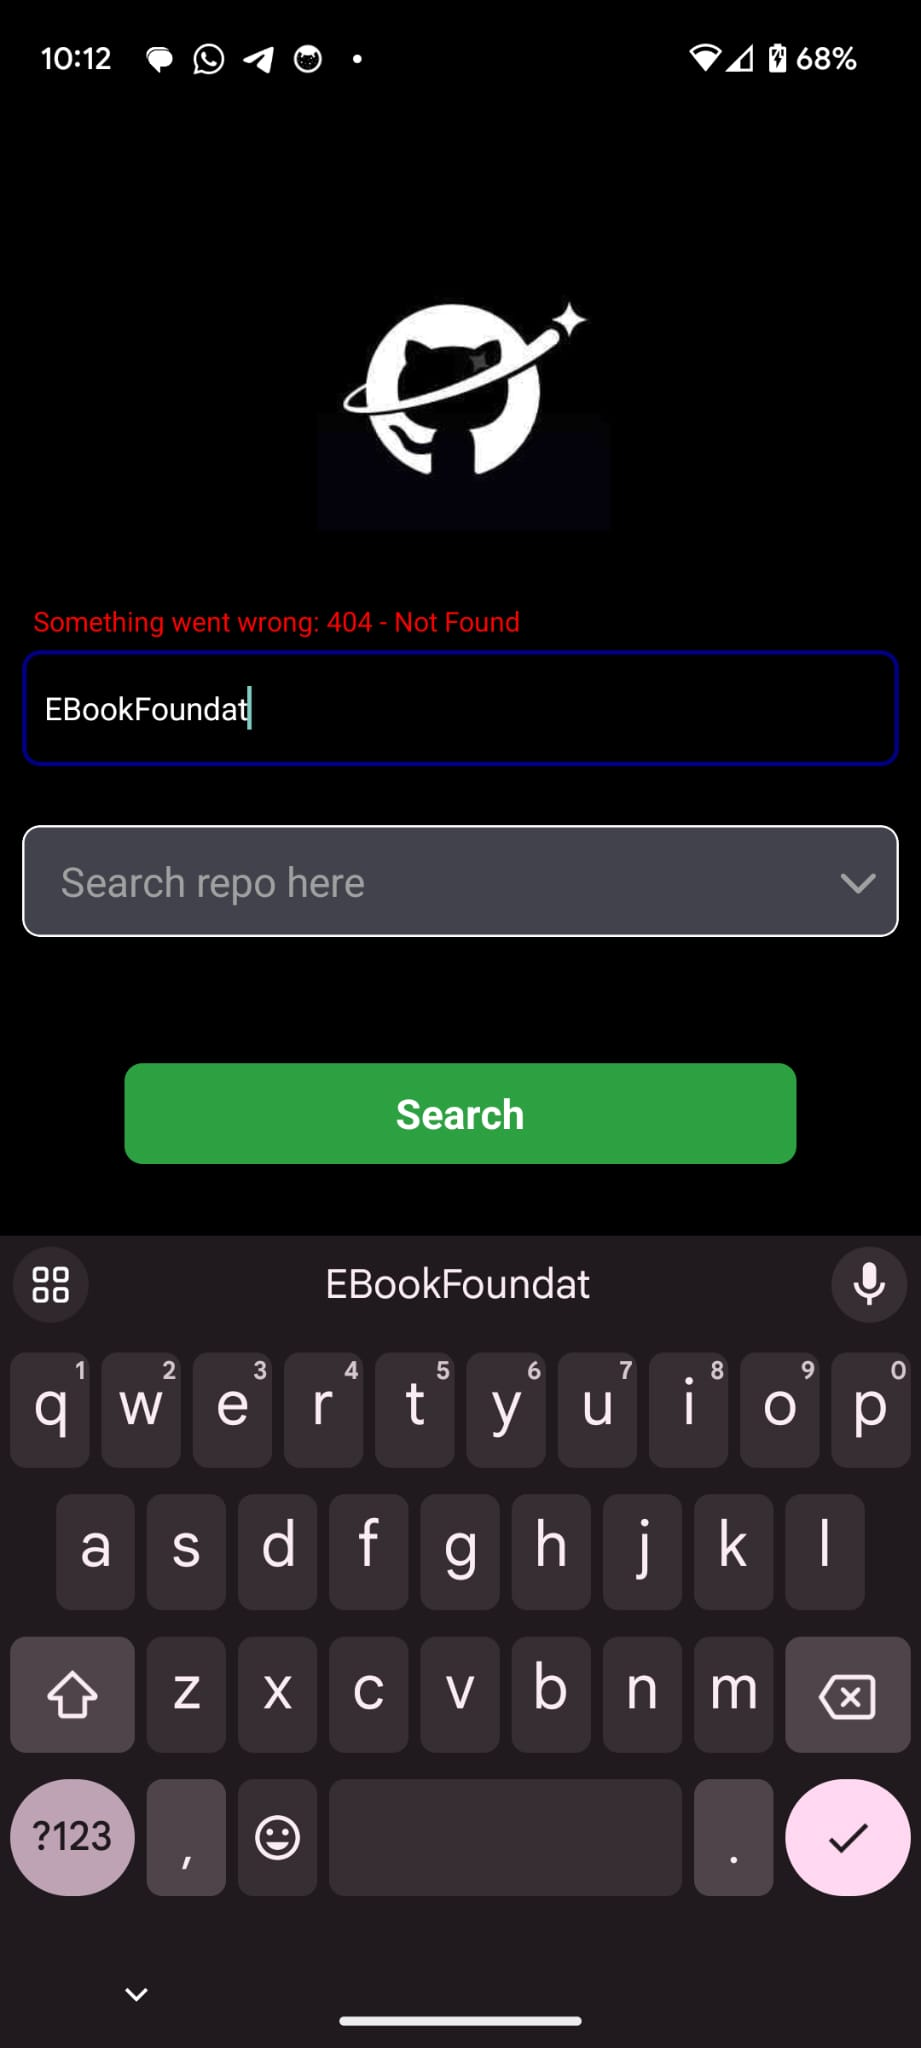
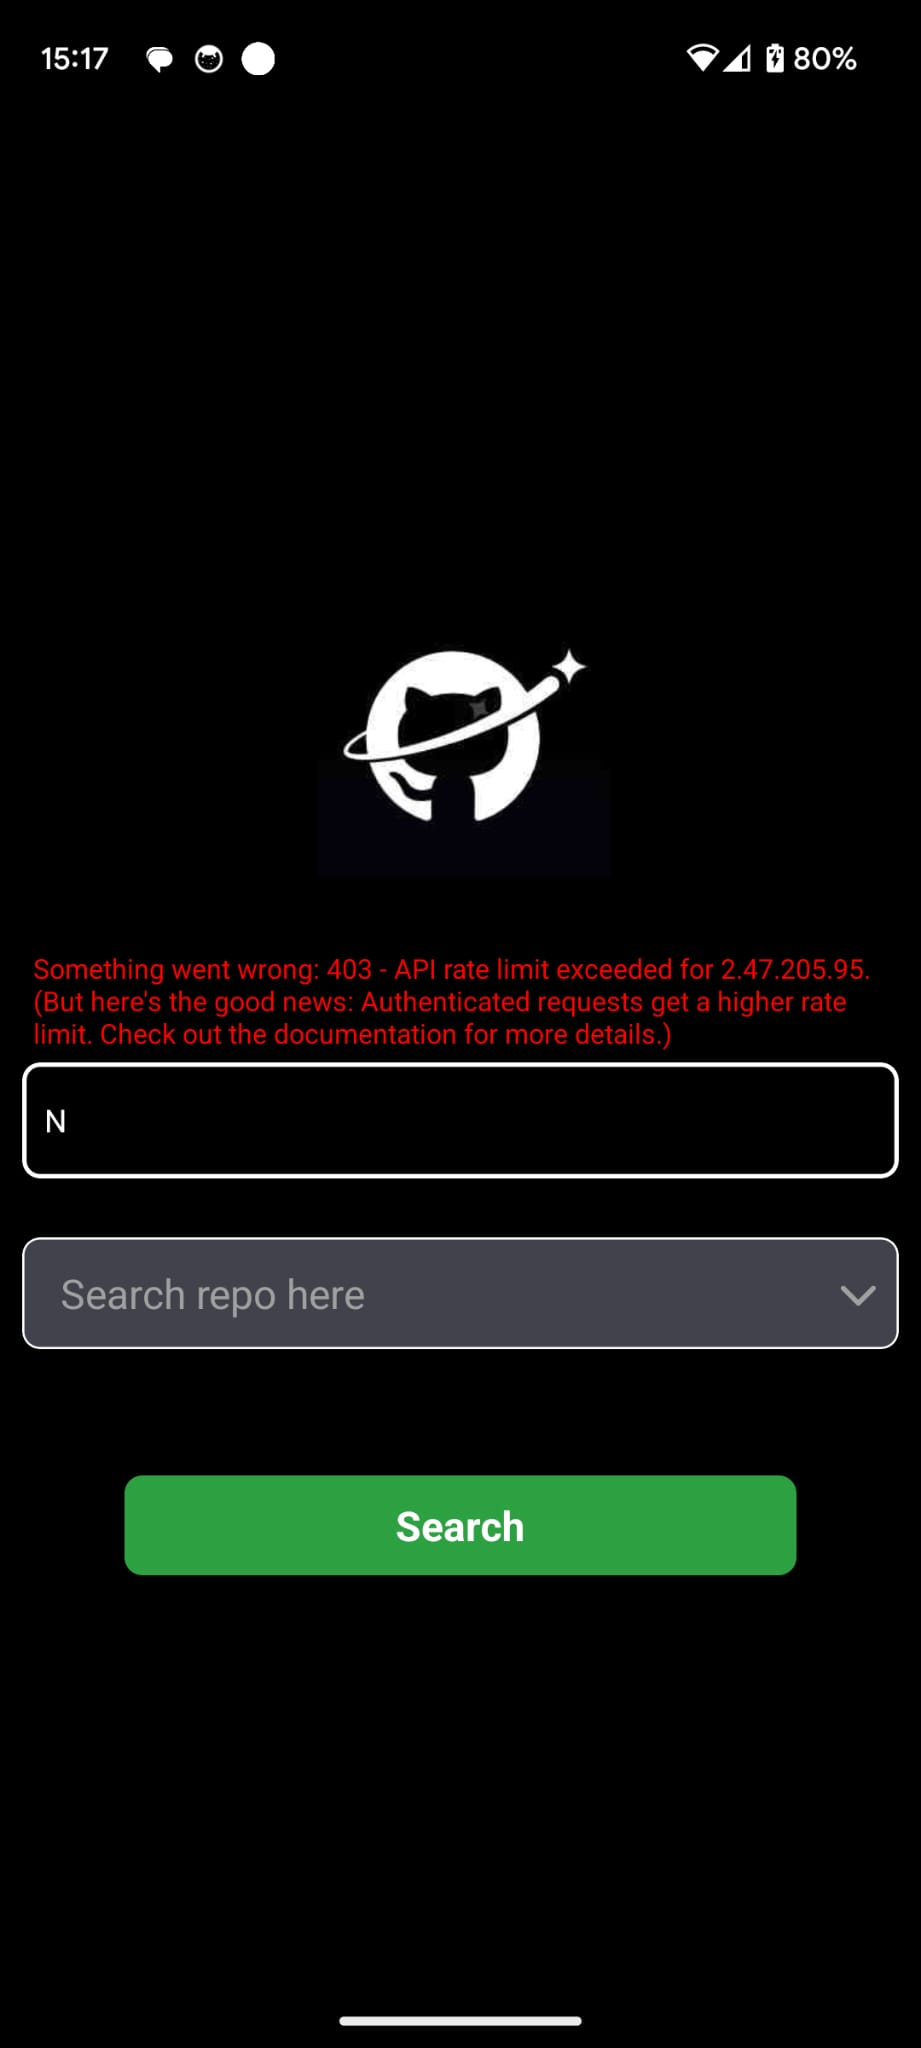
feat: readme

diff --git a/README.md b/README.md
@@ -86,7 +86,7 @@ The first screen shows an input text for the username and a select for choose a 
 <img src="https://github.com/valekuro/stargazers/blob/main/app_screen/select-block.jpeg?raw=true" width=230 />
 <img src="https://github.com/valekuro/stargazers/blob/main/app_screen/hook-form-error.jpeg?raw=true" width=230>
 </p>
-Also errors from API are managed. Until username input is empty or you fill a username without repository, the select is inactive. 
+Also errors from API are managed, I choose to use the default message but you can choose text you want. Until username input is empty or you fill a username without repository, the select is inactive. If the username has repositories, the select become active.
 <p align='center'>
 <img src="https://github.com/valekuro/stargazers/blob/main/app_screen/api-error.jpeg?raw=true" width=230 />
 <img src="https://github.com/valekuro/stargazers/blob/main/app_screen/select-unlock.jpeg?raw=true" width=230>
